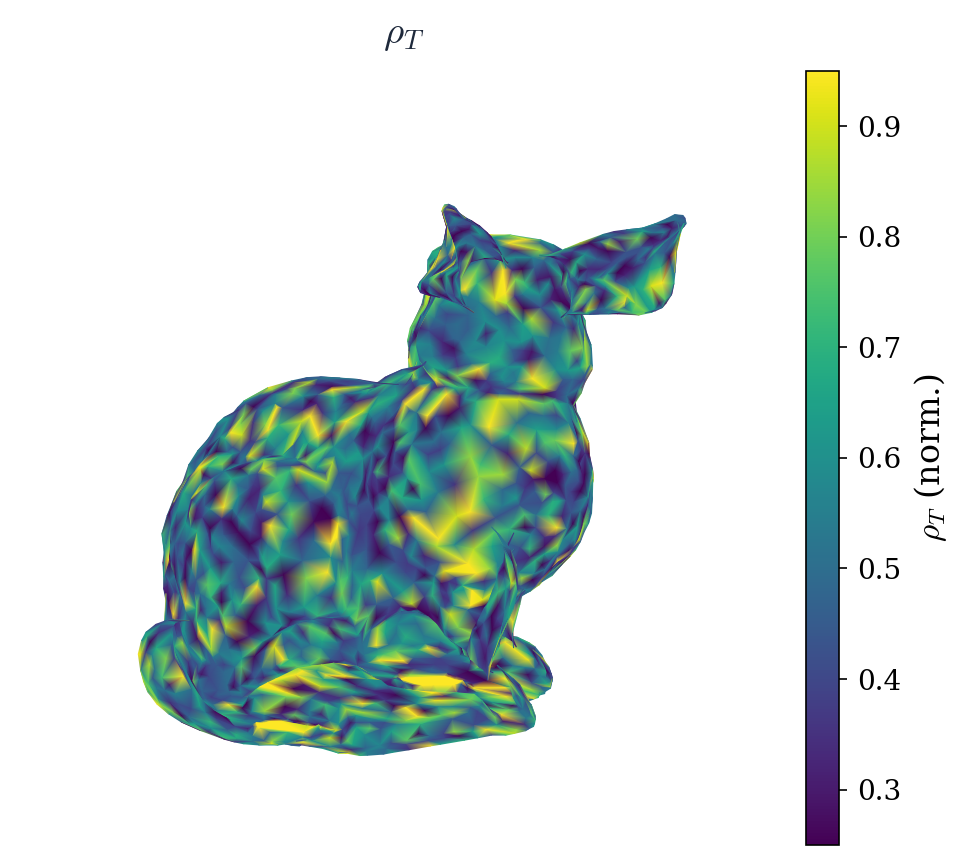
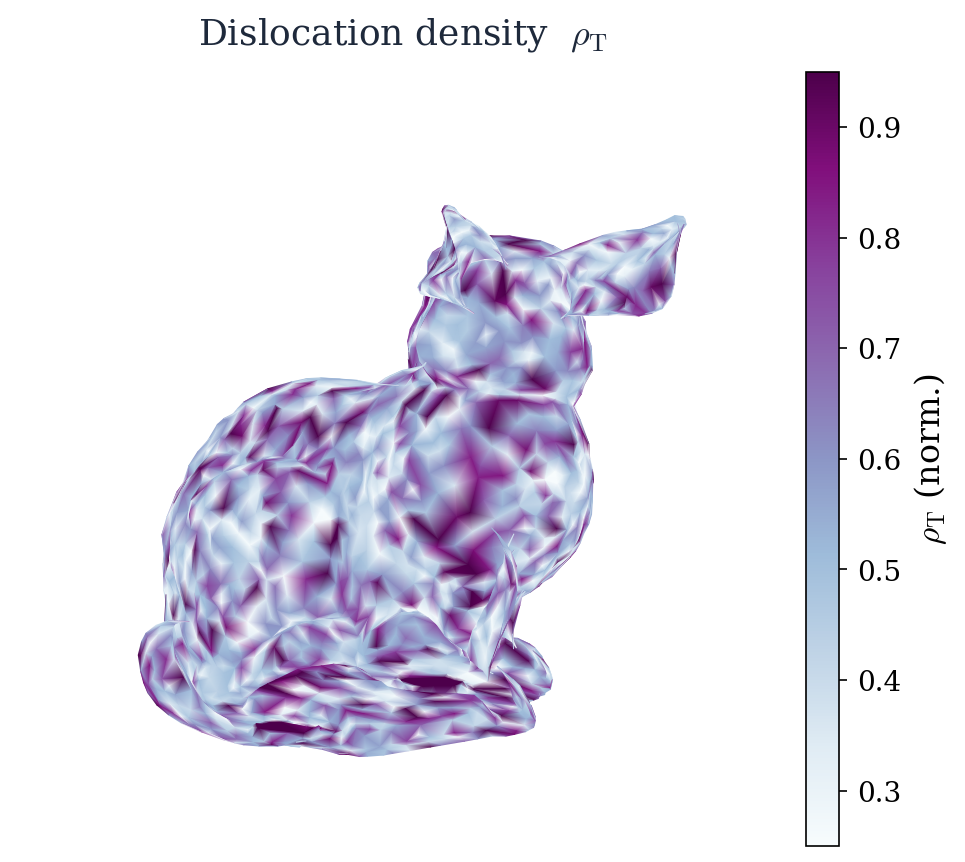
Align README bunny panels with Fig. 1: sigma_m and rho_T channels.

diff --git a/README.md b/README.md
@@ -11,12 +11,17 @@ problems for non-hydrostatic voids and a Mode-I slit with HELP softening.
 This repository is the theory library and the figure factory behind those plots.
 
 <p align="center">
-  <img src="docs/bunny_sigma_m_rho_T.png" width="92%" alt="Illustrative sigma_m and rho_T on the Stanford bunny" />
+  <img src="docs/fig1_channels_bunny.png" width="92%" alt="Illustrative sigma_m and rho_T on the Stanford bunny" />
 </p>
 
 <p align="center">
-<em>Illustrative visualization proxies on the Stanford bunny:
-$\sigma_{\mathrm{m}}/\sigma_{\mathrm{Y}}$ (left) and $\rho_{T}$ (right).</em>
+<em>
+Same two physical channels as Fig.&nbsp;1 of the paper, shown as illustrative
+proxies on the Stanford bunny:
+(a) mean stress $\sigma_{\mathrm{m}}$ (sets lattice / trap occupancy through Oriani);
+(b) dislocation density $\rho_{\mathrm{T}}$ (sets trap-site density via
+$N_{\mathrm{T}}=\chi\rho_{\mathrm{T}}/b$).
+</em>
 </p>
 ## Overview
 
